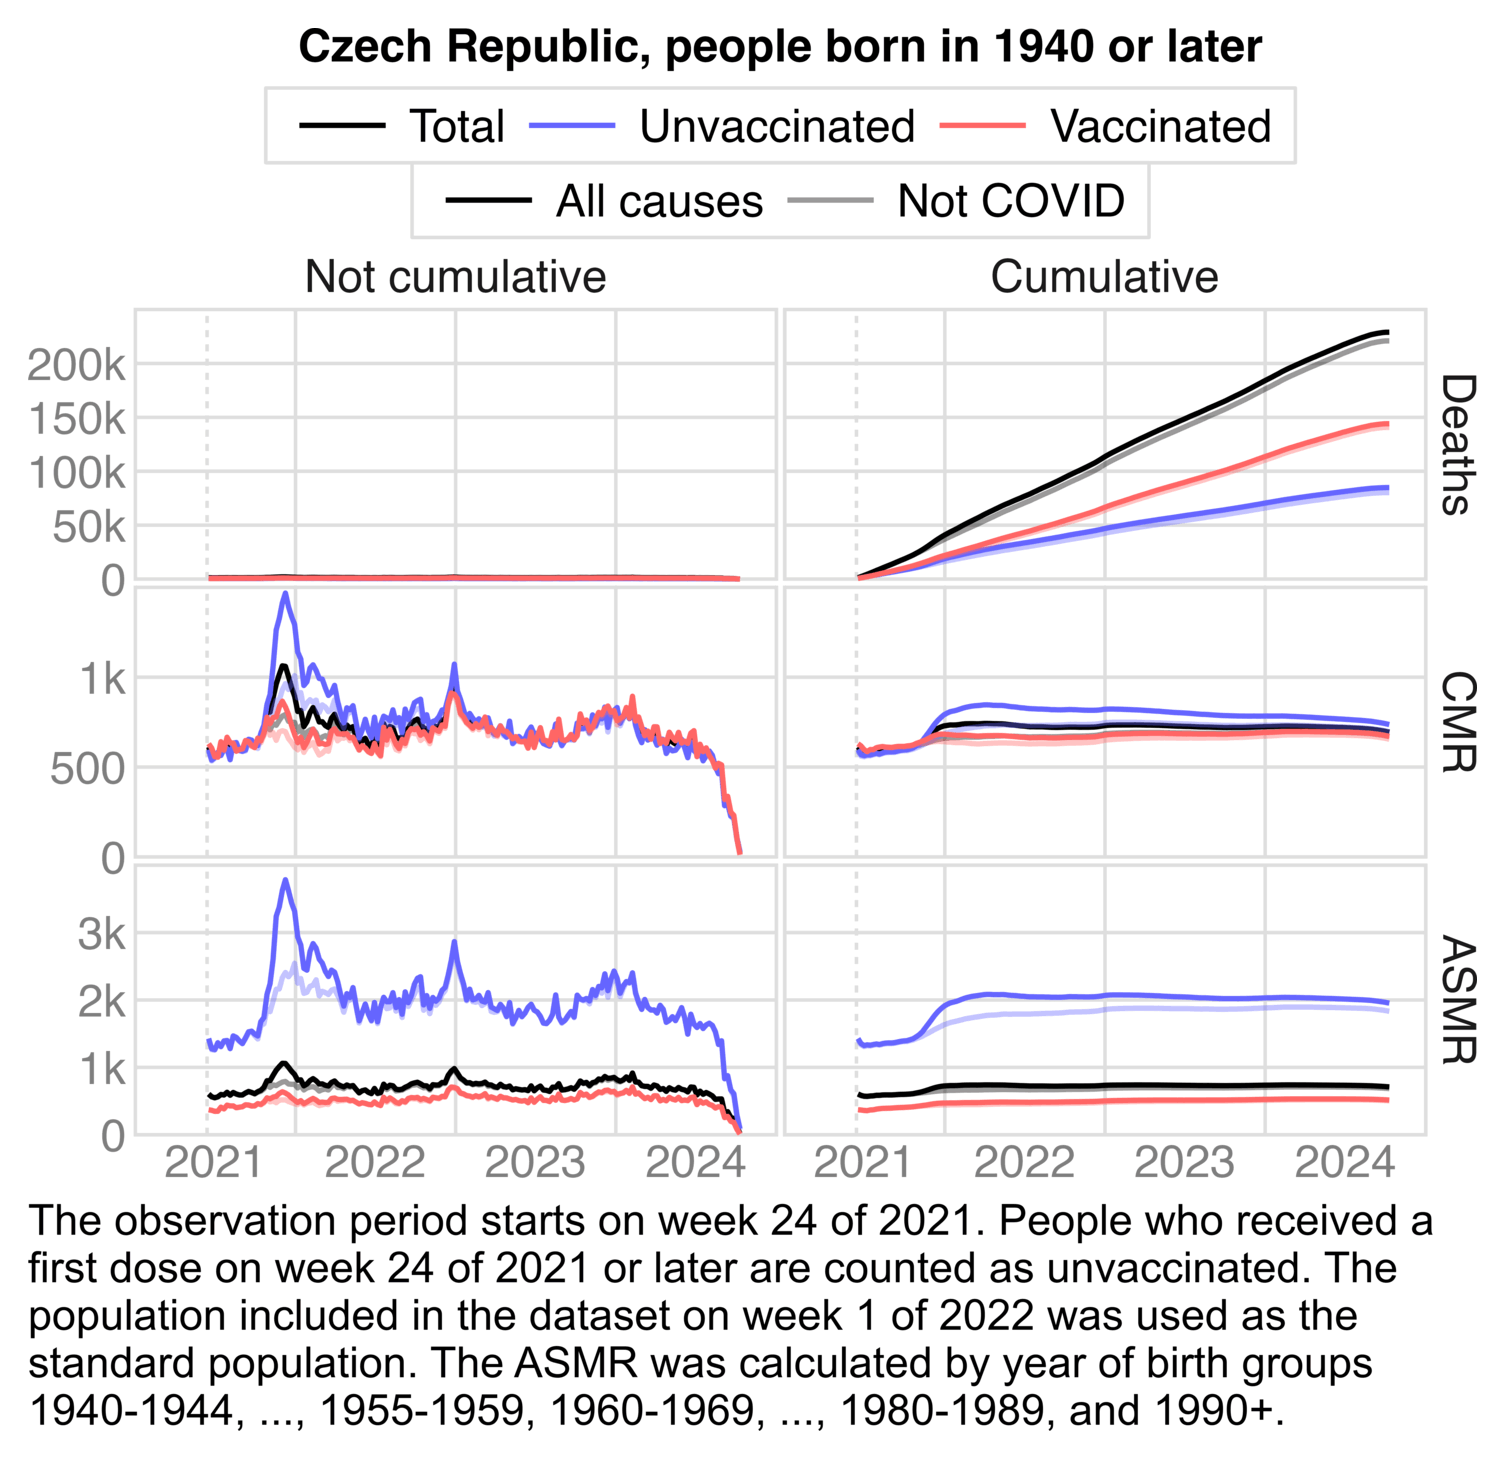
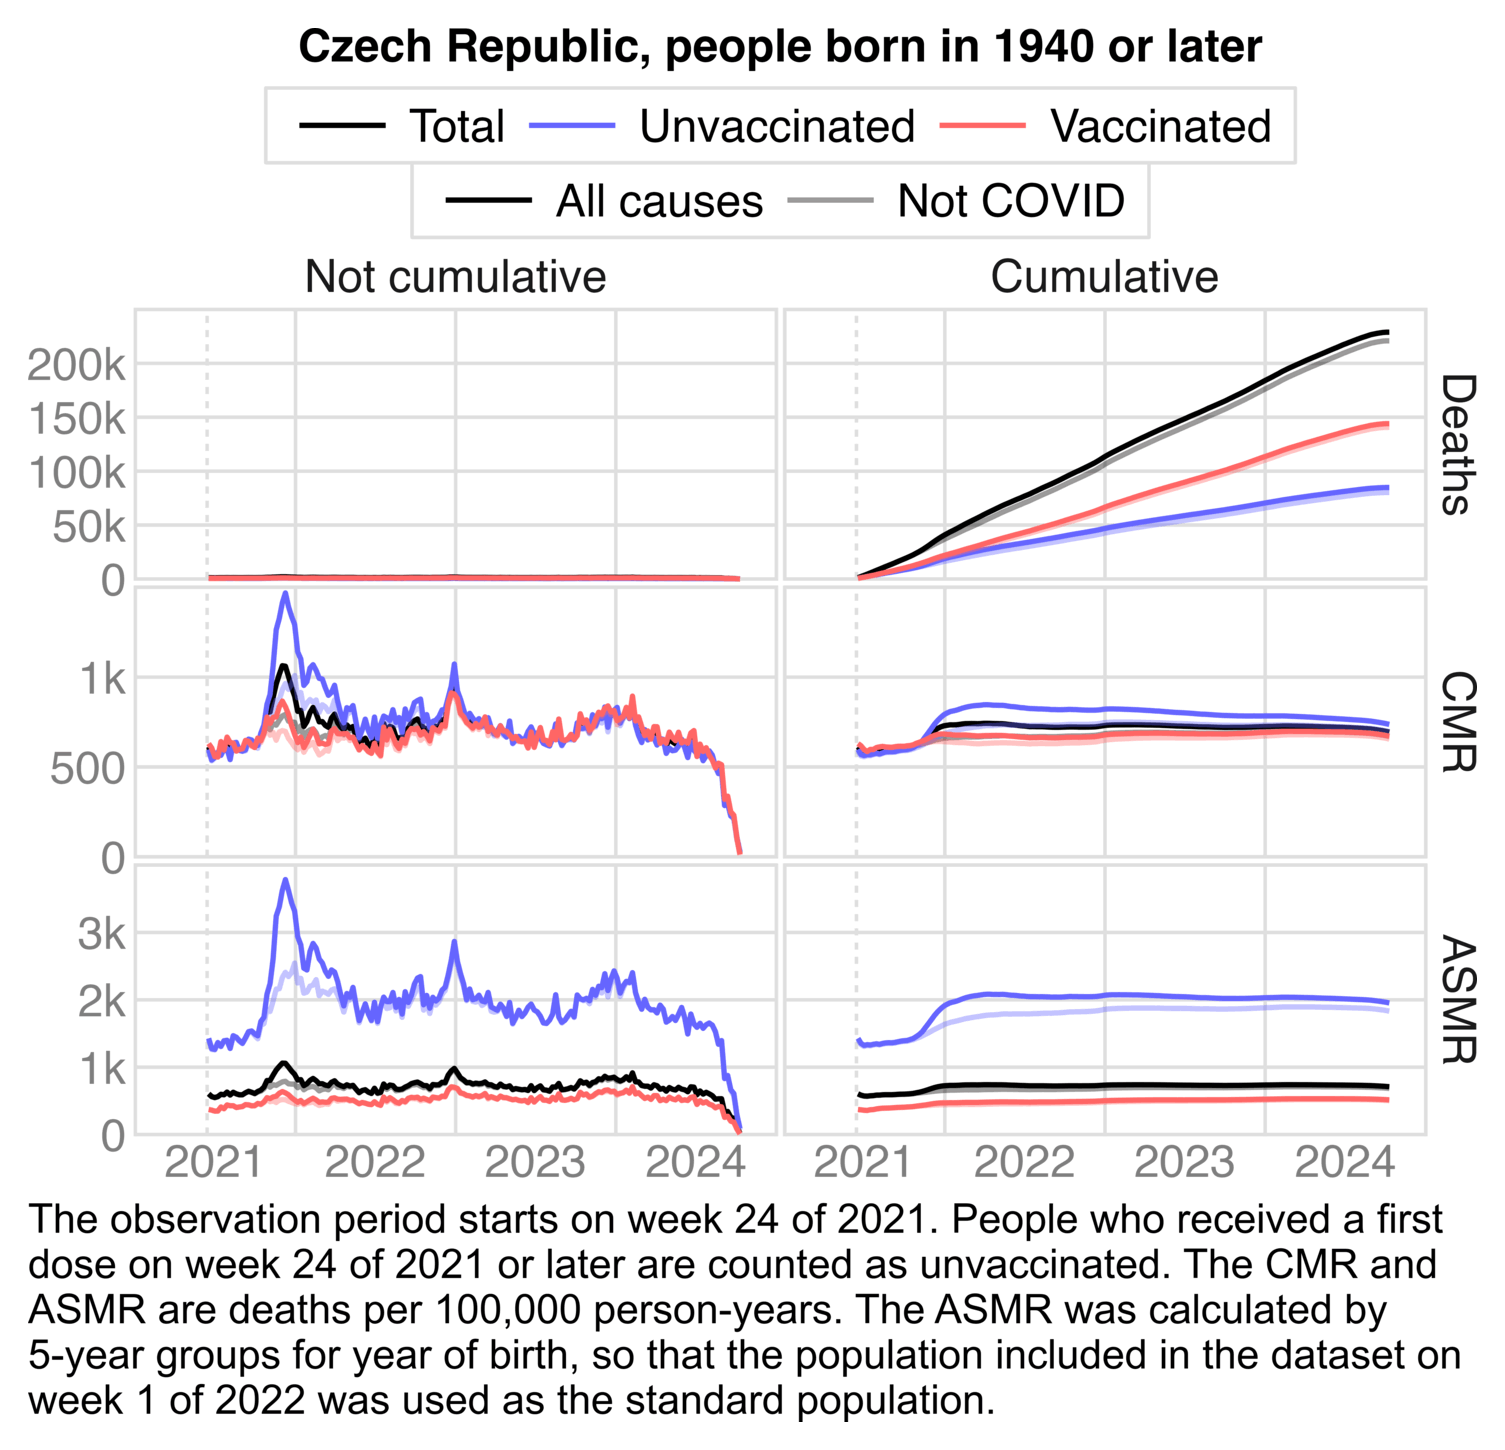
a

diff --git a/czech4.html b/czech4.html
@@ -5,15 +5,12 @@ body{background:#2f2f2f;color:white;margin:6px 6px 6px max(6px, min(50vw - 270px
 body,td,th{font:14.5px/1.3 Arial,Helvetica,'Liberation Sans',sans-serif}
 p{max-width:540px}
 ul,ol{max-width:500px}
-.toc{max-width:none}
 h1,h2,h3,h2 a,h3 a,h2 a:visited,h3 a:visited{color:white;font-weight:normal}
 h1{font-size:2.1em;margin-top:.8em}
 h2{font-size:1.7em}
 h3{font-size:1.3em}
-h4{font-size:1.1em}
-blockquote h2,blockquote h3,blockquote h4,blockquote h5{margin:.5em 0 0 0}
-blockquote ul,blockquote ol{margin:.4em}
-blockquote p{margin:.7em 0}
+blockquote h2,blockquote h3{margin:.5em 0}
+blockquote ul,blockquote ol{margin:.4em 0}
 a{color:hsl(220,100%,75%)}
 a:visited{color:hsl(270,100%,75%)}
 pre,code{white-space:pre-wrap;word-wrap:break-word;font:14px Menlo,'DejaVu Sans Mono','Liberation Mono',Consolas,monospace;background:#4a4a4a;color:white}
@@ -23,24 +20,23 @@ table{border-collapse:collapse}
 td,th{border:1px solid #555;padding:1px 3px}
 th{background:#444;text-align:left;font-weight:bold}
 img{max-width:100%}
-dt{font-size:1.3em;margin:.4em 0 .4em 0}
 hr{border: none;border-top: 2px solid #bbb;margin:1em 0}
+dt{font-size:1.3em;margin:.4em 0}
 blockquote{margin:0;padding-left:40px;margin-right:0;overflow-x:hidden}
 blockquote p{max-width:480px}
 blockquote>:first-child{margin-top:0}
 blockquote>:last-child{margin-bottom:0}
 blockquote blockquote p{max-width:440px}
 blockquote blockquote blockquote p{max-width:400px}
-blockquote,.quote,blockquote h1,blockquote h2,blockquote h3{color:hsl(50,100%,85%)}
+blockquote,.quote,blockquote h2,blockquote h3{color:hsl(50,100%,85%)}
 blockquote .quote,blockquote blockquote,.quote .quote{color:hsl(45,55%,65%)}
 blockquote blockquote blockquote,blockquote blockquote .quote,blockquote .quote .quote,.quote .quote .quote{color:hsl(40,40%,50%)}
 .spoiler button{width:90px;border:0;font-family:inherit;font-size:inherit;color:inherit;margin:0;background:#4a4a4a;padding:4px 0px;outline:none;cursor:pointer}
 .spoiler pre{display:none;margin-top:0}
 .red,.red .quote{color:hsl(0,100%,77%)!important}
-.comment{color:hsl(0,100%,80%) !important}
+.comment{color:hsl(0,100%,80%)!important}
+.toc{max-width:none}
 .width00{margin-left:calc(-1 * max(0px, min(50vw - 270px, 100vw - 1100px)) + 6px)}
-.width00 img,.width0 img{margin:0 -1.5px -1.5px 0;vertical-align:bottom}
-.blockimg{max-width:calc(100vw - min(50vw - 270px, 100vw - 1100px) - 40px - 6px)}
 @media print{
   body{background:white;color:black;margin:0px;zoom:1;print-color-adjust:exact;-webkit-print-color-adjust:exact}
   a{color:#0000EE}a:visited{color:#551A8B}
@@ -917,7 +913,7 @@ o[order(-Pfizer_N)][,c(1,2,4,6,3,5)]|&gt;mutate_if(is.double,round,1)|&gt;print(
 <a href=#ASMR_when_people_are_classified_as_unvaccinated_until_three_weeks_from_vaccination id=ASMR_when_people_are_classified_as_unvaccinated_until_three_weeks_from_vaccination>ASMR when people are classified as unvaccinated until three weeks from vaccination</a>
 </h2>
 <p>In February 2024 the Dutch Central Bureau of Statistics published a dataset for COVID and non-COVID ASMR by vaccination status: <a href=https://www.cbs.nl/nl-nl/longread/rapportages/2024/covid-vaccinatiestatus-en-sterfte/3-resultaten.><a href="https://www.cbs.nl/nl-nl/longread/rapportages/2024/covid-vaccinatiestatus-en-sterfte/3-resultaten" class="uri">https://www.cbs.nl/nl-nl/longread/rapportages/2024/covid-vaccinatiestatus-en-sterfte/3-resultaten</a>.</a> It included one set of data where people were classified as vaccinated immediately after the first dose, and another set of data where people were generally only classified as vaccinated 2 weeks after the second dose (or 4 weeks after the first dose in the case of vaccine brands like Johnson &amp; Johnson which had only one primary course dose).</p>
-<p>The classification delay reduced unvaccinated ASMR during the main rollout of the primary course doses from March to July 2021, so it resulted in a big advantage to unvaccinated people. In January and February 2021 the classification delay gave an advantage to vaccinated people because then there was a delay before the vulnerable groups of people were priorized during early rollout were counted as vaccinated, even though there were so few people who had been vaccinated during the first two months of 2021 that they don't have much impact on the total ASMR of vaccinated people:</p>
+<p>The classification delay reduced unvaccinated ASMR during the main rollout of the primary course doses from March to July 2021, so it resulted in a big advantage to unvaccinated people. In January and February 2021 the classification delay gave an advantage to vaccinated people because then there was a delay before the vulnerable groups of people were priorized during early rollout were counted as vaccinated, even though there were so few people who had been vaccinated during the first two months of 2021 that they don't have much impact on the total ASMR of vaccinated people: [<a href=statistic.html#Comparison_of_fully_vaccinated_and_vaccinated_ASMR>statistic.html#Comparison_of_fully_vaccinated_and_vaccinated_ASMR</a>]</p>
 <div>
 <img src=i/czech-cheap-1.png width=700>
 </div>

diff --git a/rootclaim4.html b/rootclaim4.html
@@ -3780,11 +3780,11 @@ system(&quot;xz -f nzipbuckets.csv&quot;)</pre>
 <h3>
 <a href=#Absolute_cumulative_deaths_in_people_under_the_age_of_80 id=Absolute_cumulative_deaths_in_people_under_the_age_of_80>Absolute cumulative deaths in people under the age of 80</a>
 </h3>
-<p>Kirsch included this plot in a Word document in his Github repository: [<a href=https://github.com/skirsch/Czech/blob/main/analysis/CzechUnder80.docx>https://github.com/skirsch/Czech/blob/main/analysis/CzechUnder80.docx</a>]</p>
+<p>Kirsch included this plot in a Word document in his GitHub repository: [<a href=https://github.com/skirsch/Czech/blob/main/analysis/CzechUnder80.docx>https://github.com/skirsch/Czech/blob/main/analysis/CzechUnder80.docx</a>]</p>
 <div>
-<img src=i/rootclaim-kcor2-u80.png width=605>
+<img src=i/rootclaim-kcor2-u80.png width=600>
 </div>
-<p>He wrote <span class="quote">"the death rate of the previously vaccinated diverged when the booster shots were delivered"</span>. But his plot showed raw deaths and not mortality rates. If he would've actually plotted mortality rates, then the lines of his two cohorts would've converged instead of diverging from 2022 onwards:</p>
+<p>He wrote <span class="quote">"the death rate of the previously vaccinated diverged when the booster shots were delivered"</span>. But his plot showed raw deaths and not mortality rates. If he would've actually plotted mortality rates, then the lines of his two cohorts would've converged from 2022 onwards instead of diverging:</p>
 <div>
 <img src=i/rootclaim-kcor2-u80-2.png width=600>
 </div>
@@ -3798,9 +3798,7 @@ t[Umrti!=&quot;&quot;&amp;DatumUmrtiLPZ==&quot;&quot;,DatumUmrtiLPZ:=Umrti]
 t[Umrti!=&quot;&quot;&amp;DatumUmrtiLPZ!=Umrti,Umrti:=DatumUmrtiLPZ]
 t=t[!(DatumUmrtiLPZ!=&quot;&quot;&amp;Datum_Prvni_davka&gt;DatumUmrtiLPZ)]
 t[,vax:=Datum_Prvni_davka!=&quot;&quot;&amp;Datum_Prvni_davka&lt;=&quot;2021-23&quot;]
-
-ages=c(1800,seq(1930,1955,5),seq(1960,1990,10))
-t[,born:=ages[findInterval(as.integer(substr(RokNarozeni,1,4)),ages)]]
+t[,born:RokNarozeni]
 
 t2=t[Infekce%in%c(NA,1)]
 
@@ -3881,7 +3879,7 @@ theme(axis.text=element_text(size=11,color=&quot;gray50&quot;,margin=margin(3,3,
   strip.text=element_text(size=11,margin=margin(3,3,3,3)))
 ggsave(&quot;1.png&quot;,width=5,height=4,dpi=300*4)
 
-sub=&quot;The people included in the dataset on week 1 of 2022 were used as the standard population. The observation period starts on week 24 of 2021. People who received a first dose on week 24 of 2021 or later are counted as unvaccinated. The population included in the dataset on week 1 of 2022 was used as the standard population. The ASMR was calculated by year of birth groups 1900-1929, 1930-1934, ..., 1945-1959, 1960-1969, ..., 1980-1989, and 1990+.&quot;
+sub=&quot;The observation period starts on week 24 of 2021. People who received a first dose on week 24 of 2021 or later are counted as unvaccinated. The CMR and ASMR are deaths per 100,000 person-years. The ASMR was calculated by 5-year groups for year of birth, so that the population included in the dataset on week 1 of 2022 was used as the standard population.&quot;
 system(paste0(&quot;mogrify -trim 1.png;magick 1.png \\( -size `identify -format %w 1.png`x -font Arial -interline-spacing -3 -pointsize $[44*4] caption:&#39;&quot;,gsub(&quot;&#39;&quot;,&quot;&#39;\\\\&#39;&#39;&quot;,sub),&quot;&#39; -splice x80 \\) -append -resize 25% -bordercolor white -border 24 -dither none -colors 256 1.png&quot;))</pre>
 </div>
 <script>
